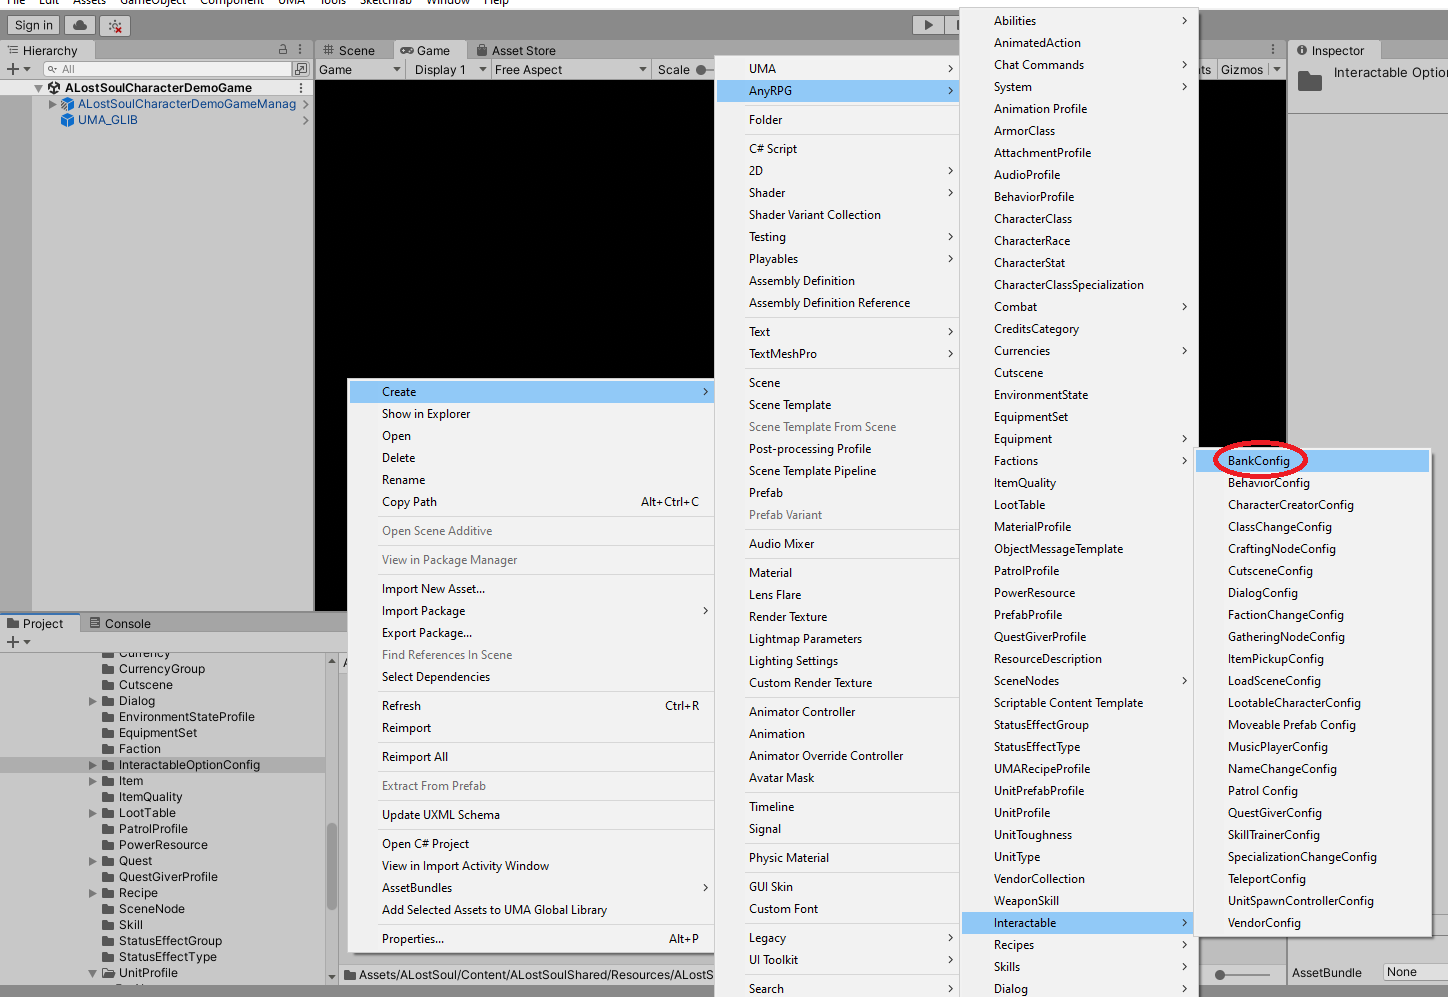
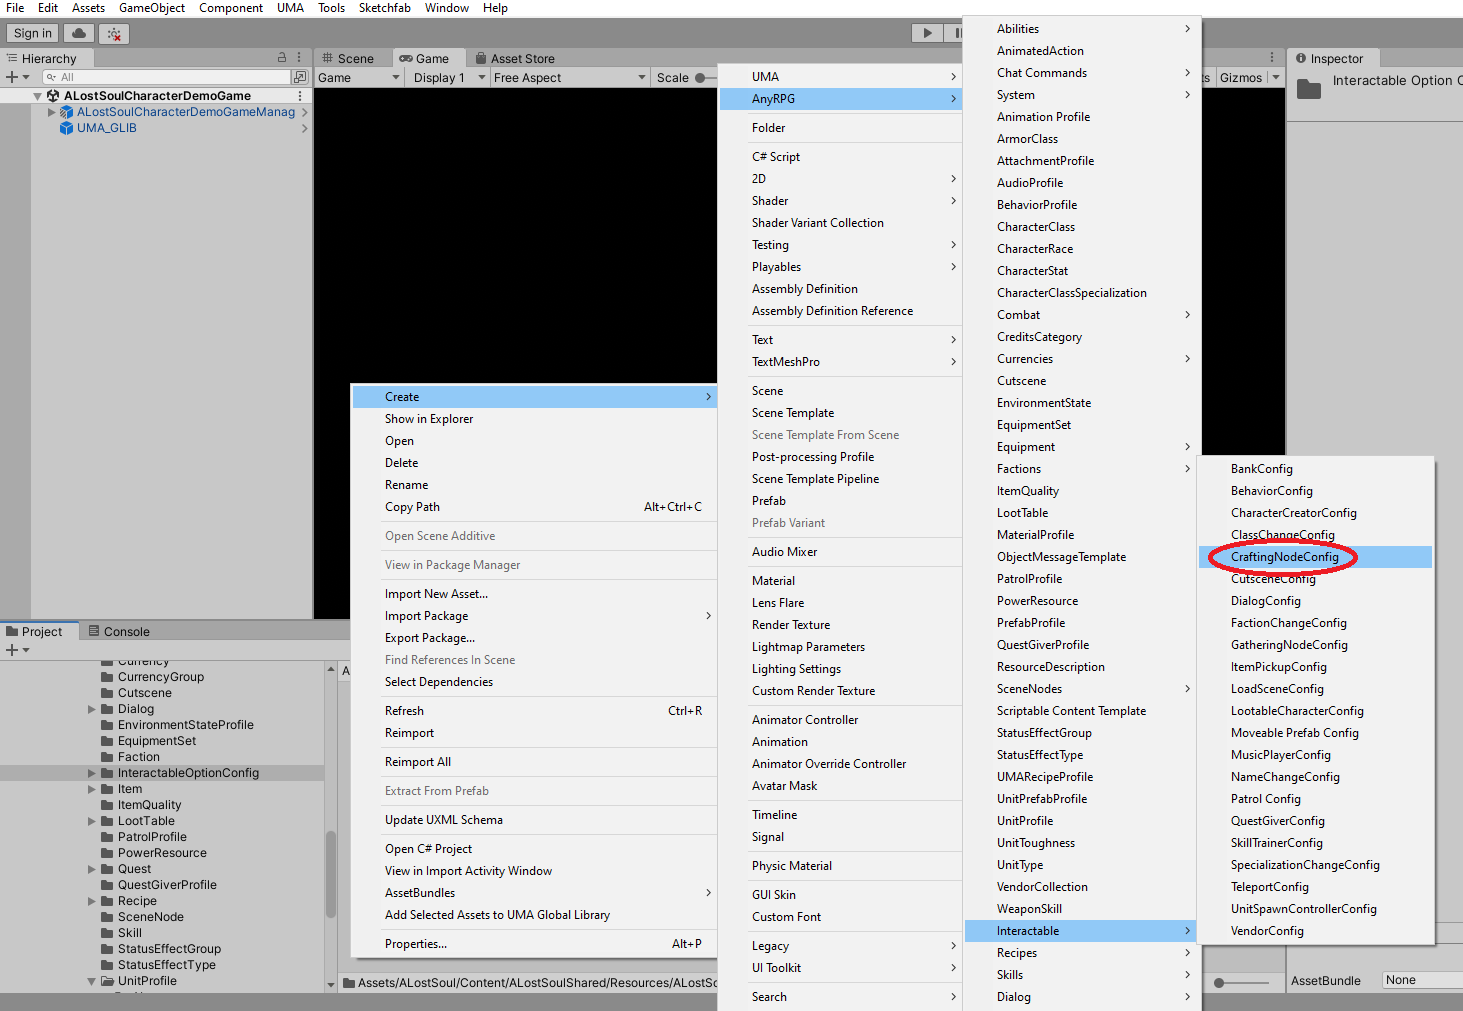
GitBook: [#70] add crafting node config documentation

Changed region(s): [[0.0, 0.0, 1.0, 1.0]]

diff --git a/scriptable-objects/interactable-option-configurations/crafting-node-config.md b/scriptable-objects/interactable-option-configurations/crafting-node-config.md
@@ -1,5 +1,23 @@
+---
+description: >-
+  A crafting node config creates a crafting interactable option, allowing the
+  player to open the crafting window and craft items.
+---
+
 # Crafting Node Config
 
-{% hint style="info" %}
-Coming Soon
-{% endhint %}
+## Creation
+
+To create a crafting node config, find (or create) the _GameName/Resources/GameName/InteractableOptionConfig_ folder in the project tab and right click.  Choose _Create > AnyRPG > Interactable > CraftingNodeConfig_.
+
+![](<../../.gitbook/assets/image (3).png>)
+
+## Properties
+
+| Name         | Description                                                                                      |
+| ------------ | ------------------------------------------------------------------------------------------------ |
+| Ability Name | The name of the [Craft Ability](../abilities/craft-ability.md) the crafting window will support. |
+
+## Next Steps
+
+* Add a crafting node config to a [Unit Profile](../unit-profile.md) to allow the character to open the crafting window and craft items.

diff --git a/scriptable-objects/items/equipment.md b/scriptable-objects/items/equipment.md
@@ -8,7 +8,7 @@ description: Equipment is any type of item that can be equipped on a character.
 
 To create equipment, find (or create) the _GameName/Resources/GameName/Item/Equipment_ folder (or any subfolder) in the project tab and right click.  Choose _Create > AnyRPG > Inventory > Equipment > Equipment_.
 
-![](<../../.gitbook/assets/image (5) (1).png>)
+![](<../../.gitbook/assets/image (5) (1) (2).png>)
 
 ## Properties
 

diff --git a/scriptable-objects/items/weapon.md b/scriptable-objects/items/weapon.md
@@ -8,7 +8,7 @@ description: A weapon is a type of equipment that does damage to an enemy when u
 
 To create a weapon, find (or create) the _GameName/Resources/GameName/Item/Equipment_ folder (or any subfolder) in the project tab and right click.  Choose _Create > AnyRPG > Inventory > Equipment > Weapon_.
 
-![](<../../.gitbook/assets/image (5).png>)
+![](<../../.gitbook/assets/image (5) (1).png>)
 
 ## Properties
 

diff --git a/scriptable-objects/material-profile.md b/scriptable-objects/material-profile.md
@@ -8,7 +8,7 @@ description: A material profile stores a link to a Unity material on disk.
 
 To create a material profile, find (or create) the _GameName/Resources/GameName/MaterialProfile_ folder in the project tab and right click.  Choose _Create > AnyRPG > MaterialProfile_.
 
-![](<../.gitbook/assets/image (3) (1) (3).png>)
+![](<../.gitbook/assets/image (3) (1).png>)
 
 
 

diff --git a/scriptable-objects/interactable-option-configurations/character-creator-config.md b/scriptable-objects/interactable-option-configurations/character-creator-config.md
@@ -10,7 +10,7 @@ description: >-
 
 To create a character creator config, find (or create) the _GameName/Resources/GameName/InteractableOptionConfig_ folder in the project tab and right click.  Choose _Create > AnyRPG > Interactable > CharacterCreatorConfig_.
 
-![](../../.gitbook/assets/image.png)
+![](<../../.gitbook/assets/image (5).png>)
 
 ## Properties
 

diff --git a/scriptable-objects/interactable-option-configurations/behavior-config.md b/scriptable-objects/interactable-option-configurations/behavior-config.md
@@ -10,7 +10,7 @@ description: >-
 
 To create a behavior config, find (or create) the _GameName/Resources/GameName/InteractableOptionConfig_ folder in the project tab and right click.  Choose _Create > AnyRPG > Interactable > BehaviorConfig_.
 
-![](<../../.gitbook/assets/image (2).png>)
+![](<../../.gitbook/assets/image (101).png>)
 
 ## Properties
 

diff --git a/scriptable-objects/uma-recipe-profile.md b/scriptable-objects/uma-recipe-profile.md
@@ -10,7 +10,7 @@ description: >-
 
 To create an UMA recipe profile, find (or create) the _GameName/Resources/GameName/UMARecipeProfile_ folder (or any subfolder) in the project tab and right click.  Choose _Create > AnyRPG > UMARecipeProfile_.
 
-![](<../.gitbook/assets/image (4).png>)
+![](<../.gitbook/assets/image (4) (2).png>)
 
 ## Properties
 

diff --git a/scriptable-objects/interactable-option-configurations/class-change-config.md b/scriptable-objects/interactable-option-configurations/class-change-config.md
@@ -10,7 +10,7 @@ description: >-
 
 To create a behavior config, find (or create) the _GameName/Resources/GameName/InteractableOptionConfig_ folder in the project tab and right click.  Choose _Create > AnyRPG > Interactable > ClassChangeConfig_.
 
-![](<../../.gitbook/assets/image (1).png>)
+![](../../.gitbook/assets/image.png)
 
 ## Properties
 

diff --git a/scriptable-objects/interactable-option-configurations/bank-config.md b/scriptable-objects/interactable-option-configurations/bank-config.md
@@ -10,7 +10,7 @@ description: >-
 
 To create a bank config, find (or create) the _GameName/Resources/GameName/InteractableOptionConfig_ folder in the project tab and right click.  Choose _Create > AnyRPG > Interactable > BankConfig_.
 
-![](<../../.gitbook/assets/image (3).png>)
+![](<../../.gitbook/assets/image (4).png>)
 
 ## Properties
 

diff --git a/scriptable-objects/unit-prefab-profile.md b/scriptable-objects/unit-prefab-profile.md
@@ -10,7 +10,7 @@ description: >-
 
 To create a unit prefab profile, find (or create) the _GameName/Resources/GameName/UnitPrefabProfile_ folder in the project tab and right click.  Choose _Create > AnyRPG > UnitPrefabProfile_.
 
-![](<../.gitbook/assets/image (3) (1).png>)
+![](<../.gitbook/assets/image (3) (3).png>)
 
 ## Properties
 

diff --git a/scriptable-objects/equipment-slot-profile.md b/scriptable-objects/equipment-slot-profile.md
@@ -11,7 +11,7 @@ description: >-
 
 To create an equipment set, find (or create) the _GameName/Resources/GameName/EquipmentSlotProfile_ folder in the project tab and right click.  Choose _Create > AnyRPG > Equipment> EquipmentSlot_.
 
-![](<../.gitbook/assets/image (101).png>)
+![](<../.gitbook/assets/image (101) (1).png>)
 
 
 

diff --git a/scriptable-objects/unit-profile.md b/scriptable-objects/unit-profile.md
@@ -10,7 +10,7 @@ description: >-
 
 To create a unit profile, find (or create) the _GameName/Resources/GameName/UnitProfile_ folder in the project tab and right click.  Choose _Create > AnyRPG > UnitProfile_.
 
-![](<../.gitbook/assets/image (1) (2).png>)
+![](<../.gitbook/assets/image (1).png>)
 
 ## Properties
 
